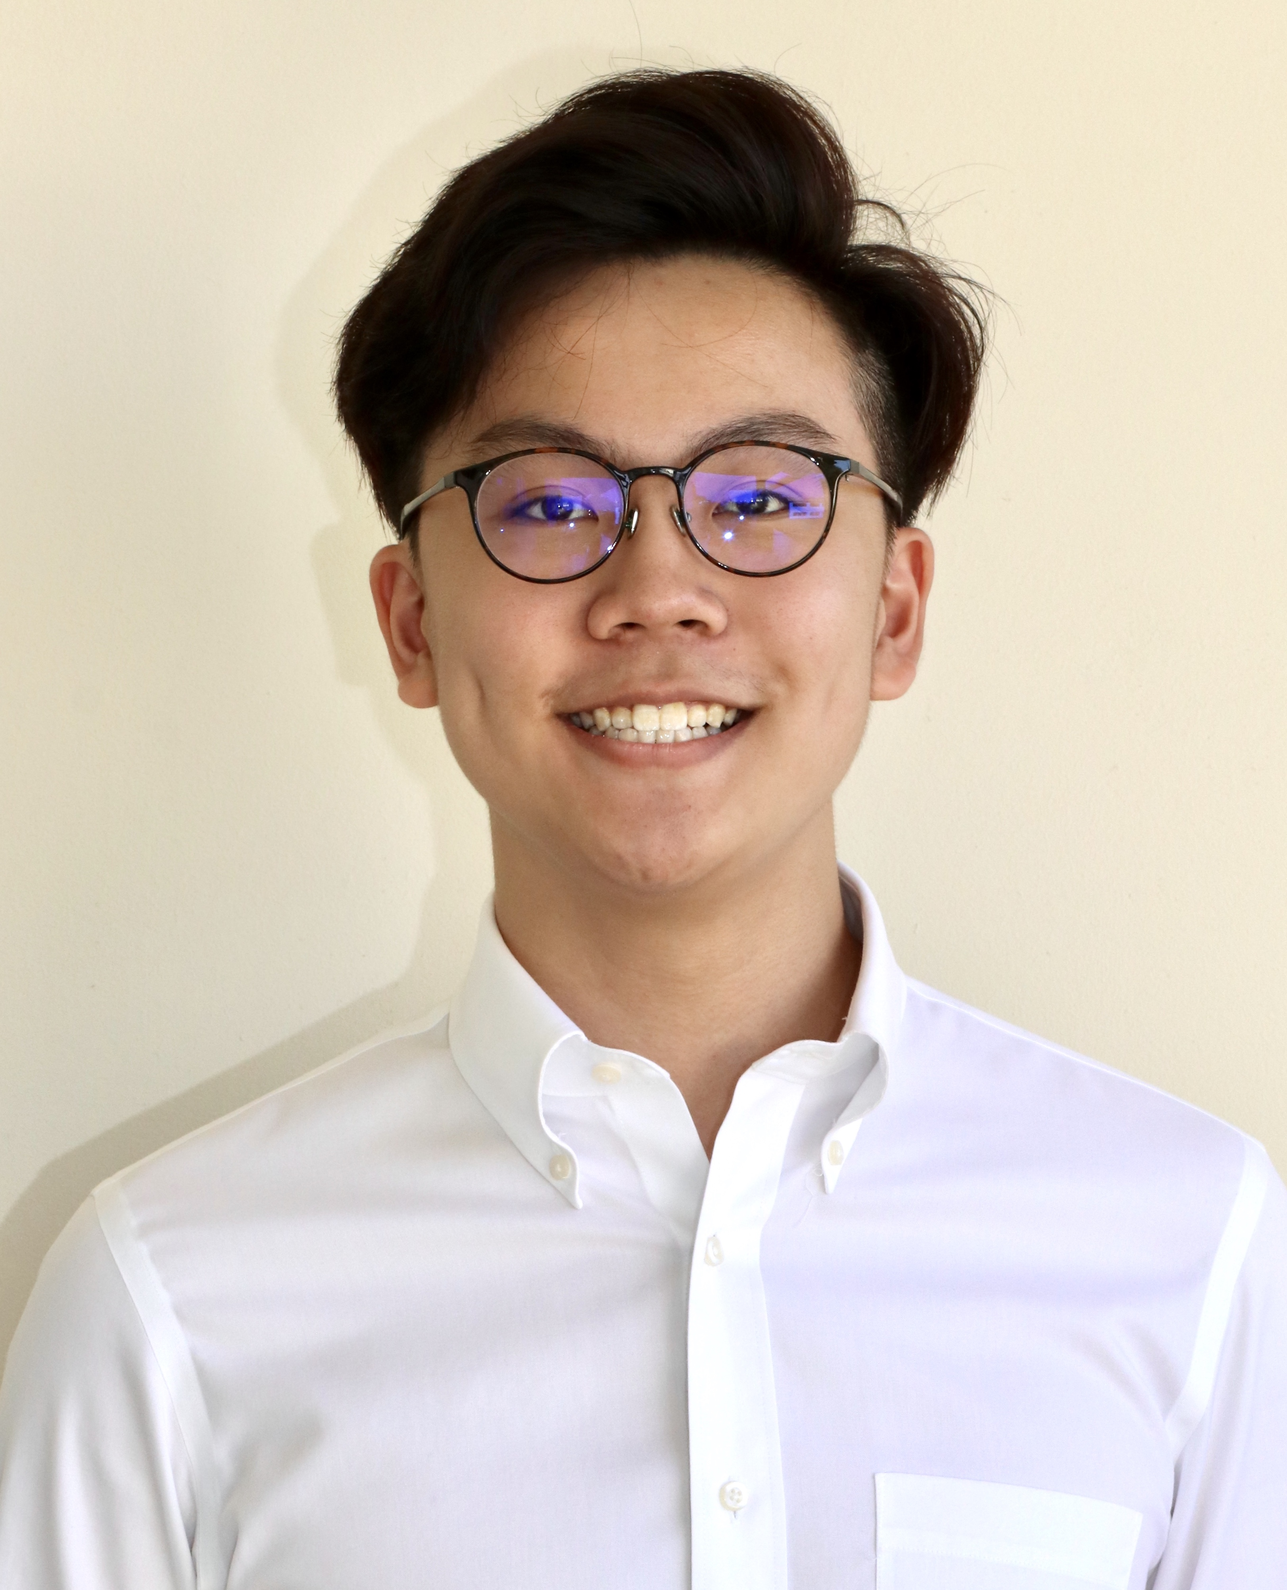
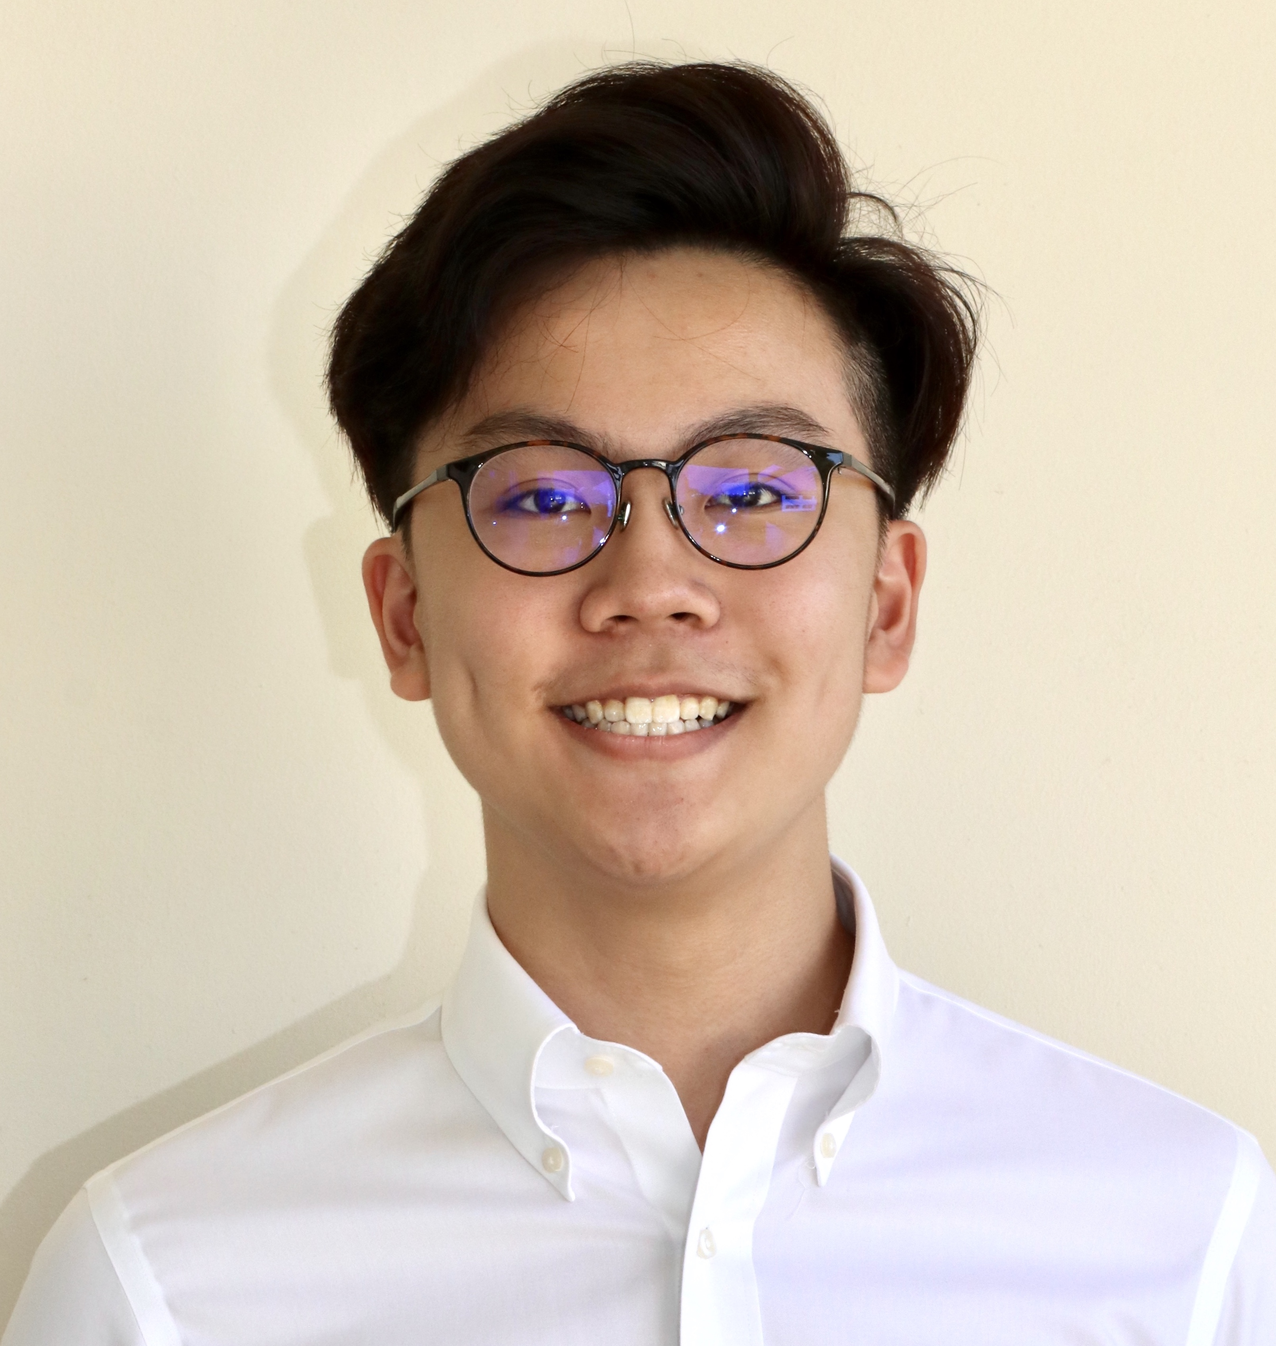
completed achievements section

diff --git a/index.html b/index.html
@@ -31,7 +31,7 @@
       <a class="navbar-brand js-scroll-trigger" href="#page-top">
         <span class="d-block d-lg-none">Victor Loh</span>
         <span class="d-none d-lg-block">
-          <img class="img-fluid img-profile rounded-circle mx-auto mb-2" src="profile_formal.jpg" alt="">
+          <img class="img-fluid img-profile rounded-circle mx-auto mb-2" src="profile.jpg" alt="">
         </span>
       </a>
       <button class="navbar-toggler" type="button" data-toggle="collapse" data-target="#navbarSupportedContent" aria-controls="navbarSupportedContent" aria-expanded="false" aria-label="Toggle navigation">
@@ -148,7 +148,8 @@
               <div class="subheading mb-3">6 Years Integrated Programme</div>
               <div>I offered H1 General Paper, H1 Project Work, H1 Higher Chinese, H2 Physics, H2 Chemistry, H2 Mathematics, H2 Economics and H3 Mathematics at the A-Levels.</div>
               <p></p>
-              <p>Obtained straight As with 8 distinctions (all subjects offered) and a perfect RP of 90.</p>
+              <p>Scored perfect 90 RP for the A-Levels (8 distinctions, straight As) - H1 GP: A, H1 PW: A, H1 HCL: A, H2 Physics: A, H2 Chem: A, H2 Math: A, H2 Econs: A, H3 Math: Distinction</p>
+              <p>Upon graduation, I was awarded the prestigious Raffles Diploma with Distinction in the Cognitive domain.</p>
             </div>
             <div class="resume-date text-md-right">
               <span class="text-primary">Jan 2018 - Dec 2019</span>
@@ -304,13 +305,19 @@
 
       <section class="resume-section p-3 p-lg-5 d-flex flex-column" id="awards">
         <div class="my-auto">
-          <h2 class="mb-5">awards &amp; certifications</h2>
+          <h2 class="mb-5">awards • achievements</h2>
           <div class="subheading mb-3">2019</div>
           <p></p>
           <ul class="fa-ul mb-0">
             <li>
               <i class="fa-li fa fa-trophy text-warning"></i>
-              Cyber Defenders Discovery Camp by DSTA (Capture The Flag) - Onsite Finals, Bronze Medallist</li>
+              Awarded Raffles Diploma with Distinction in Cognitive domain</li>
+            <li>
+              <i class="fa-li fa fa-trophy text-warning"></i>
+              Asia Pacific Bridge Federation Youth Team Championships (Under-20) held in Bangkok, Thailand - Bronze Medal</li>
+            <li>
+              <i class="fa-li fa fa-trophy text-warning"></i>
+              Cyber Defenders Discovery Camp organised by DSTA (Capture The Flag) Onsite Finals - Bronze Medal</li>
             <li>
               <i class="fa-li fa fa-trophy text-warning"></i>
               National School Teams (Contract Bridge) - Champion</li>
@@ -322,7 +329,11 @@
               National Olympiad in Informatics - Silver Medal</li>
             <li>
               <i class="fa-li fa fa-trophy text-warning"></i>
-              SMU Whitehacks (Capture The Flag) - Participation</li>
+              WhiteHacks@SG (Capture The Flag) by Centre for Strategic Infocomm Technologies, CSA Singapore, GovTech Singapore and Whitehat Society - Participation</li>
+            <li>
+              <i class="fa-li fa fa-trophy text-warning"></i>
+              Awarded Edusave Award for Achievement, Good Leadership and Service (EAGLES)</li>
+            
             </ul>
             <p></p>
             <div class="subheading mb-3">2018</div>
@@ -335,7 +346,7 @@
               Asia Pacific ICT Alliance (APICTA) Awards held in Guangzhou - Merit Award in Senior Students Category</li>
             <li>
               <i class="fa-li fa fa-trophy text-warning"></i>
-              SG:D Techblazer Awards - Selected to attend APICTA Awards in Guangzhou</li>
+              SG:D Techblazer Awards - Only student team selected from the competition to represent Singapore at the APICTA Awards in Guangzhou</li>
             <li>
               <i class="fa-li fa fa-trophy text-warning"></i>
               Singapore Mathematical Olympaid (Open Section) - Gold Award</li>
@@ -356,29 +367,324 @@
             <ul class="fa-ul mb-0">
               <li>
                 <i class="fa-li fa fa-trophy text-warning"></i>
-                Goh Hoon Meng Prize for Mathematics - Top student in Mathematics (Raffles Academy)</li>
+                Goh Hoon Meng Prize for Mathematics - Top student in Mathematics (Raffles Academy) in Raffles Institution</li>
               <li>
                 <i class="fa-li fa fa-trophy text-warning"></i>
-                Asia Pacific ICT Alliance (APICTA) Awards held in Guangzhou - Merit Award in Senior Students Category</li>
+                Top student in Computer Elective Programme in Raffles Institution</li>
               <li>
                 <i class="fa-li fa fa-trophy text-warning"></i>
-                SG:D Techblazer Awards - Selected to attend APICTA Awards in Guangzhou</li>
+                DSTA Young Defence Scientists Programme Academic Award - Mathematics</li>
               <li>
                 <i class="fa-li fa fa-trophy text-warning"></i>
-                Singapore Mathematical Olympaid (Open Section) - Gold Award</li>
+                Singapore Mathematical Olympaid (Senior Section) - Individual 11<sup>th</sup>, Gold Award</li>
               <li>
                 <i class="fa-li fa fa-trophy text-warning"></i>
-                National School Teams (Contract Bridge) - 1<sup>st</sup> Runner-up</li>
+                Singapore Mathematical Olympaid (Open Section) - Silver Award</li>
               <li>
                 <i class="fa-li fa fa-trophy text-warning"></i>
-                Raffles Pairs (Contract Bridge) - Top JC1 pair</li>
-  
+                The Peter O'Halloran Award for Excellence in the Australian Mathematics Competition (Intermediate Division) - Perfect Score, Medal</li>
               <li>
                 <i class="fa-li fa fa-trophy text-warning"></i>
                 National Olympiad in Informatics - Silver Medal</li>
-  
+              <li>
+                <i class="fa-li fa fa-trophy text-warning"></i>
+                National Olympiad in Informatics - Silver Medal</li>
+              <li>
+                <i class="fa-li fa fa-trophy text-warning"></i>
+                [i.code] by Nanyang Polytechnic, Infocomm Media Development Authority and Centre for Strategic Infocomm Technologies - 2<sup>nd</sup> Runner-up</li>
+              <li>
+                <i class="fa-li fa fa-trophy text-warning"></i>
+                The 12<sup>th</sup> Singapore Games Creation Competition organised by Nanyang Polytechnic - Merit Award, Mobile Game Award</li>
+              <li>
+                <i class="fa-li fa fa-trophy text-warning"></i>
+                Awarded Edusave Award for Achievement, Good Leadership and Service (EAGLES)</li>
+              <li>
+                <i class="fa-li fa fa-trophy text-warning"></i>
+                Awarded Raffles Merit Award for contribution to Mathematics Club as Chairperson</li>
+              </ul>
+
+            <p></p>
+            <div class="subheading mb-3">2016</div>
+            <ul class="fa-ul mb-0">
+              <li>
+                <i class="fa-li fa fa-trophy text-warning"></i>
+                Goh Hoon Meng Prize for Mathematics - Top student in Mathematics (Raffles Academy) in Raffles Institution</li>
+              <li>
+                <i class="fa-li fa fa-trophy text-warning"></i>
+                Hong Kong (China) Mathematical Olympiad held in Hong Kong - Third Class Award</li>
+              <li>
+                <i class="fa-li fa fa-trophy text-warning"></i>
+                The 11<sup>th</sup> Singapore Games Creation Competition organised by Nanyang Polytechnic - Champion, Mobile Game Award, Special Prize (Best Relevance), Special Prize (Best Creativity)</li>
+              <li>
+                <i class="fa-li fa fa-trophy text-warning"></i>
+                IMDA-Tableau NIC Face-off | Data Analytics - Showing Insights and Telling Data-Driven Stories - 2<sup>nd</sup> Runner-up</li>
+              <li>
+                <i class="fa-li fa fa-trophy text-warning"></i>
+                American Mathematics Contest 12 - Certificate of Achievement</li>
+              <li>
+                <i class="fa-li fa fa-trophy text-warning"></i>
+                Presented Raffles Institution F.I.R.E. Award for exhibiting exemplary character</li>
+              <li>
+                <i class="fa-li fa fa-trophy text-warning"></i>
+                Australian Intermediate Mathematics Olympiad - High Distinction</li>
+              <li>
+                <i class="fa-li fa fa-trophy text-warning"></i>
+                Australian Mathematics Competition (Intermediate Division) - Prize Award</li>
+              <li>
+                <i class="fa-li fa fa-trophy text-warning"></i>
+                Singapore Statistics Poster Competition (Secondary School Category) - Participation</li>
+              <li>
+                <i class="fa-li fa fa-trophy text-warning"></i>
+                莱佛士书院母语部专题作业 ”镜头会说话“ - 第二名</li>
+              <li>
+                <i class="fa-li fa fa-trophy text-warning"></i>
+                Singapore Mathematical Olympiad (Open Section) - Silver Award</li>
+              <li>
+                <i class="fa-li fa fa-trophy text-warning"></i>
+                <i>Properties of Tangential Quadrilaterals and their Applications</i> - Bronze Award and Certificate of High Distinction under Raffles Institution Research Education (Mathematics Category)</li>
+              
+              <li>
+                <i class="fa-li fa fa-trophy text-warning"></i>
+                Completed Singapore International Mathematical Olympiad (SIMO) Senior Team training programme from Oct 2016 to June 2017</li>
+              </ul>
+
+            <p></p>
+            <div class="subheading mb-3">2015</div>
+            <ul class="fa-ul mb-0">
+              <li>
+                <i class="fa-li fa fa-trophy text-warning"></i>
+                Singapore Mathematical Olympiad (Junior Section) - Individual 6<sup>th</sup>, Gold Award</li>
+              <li>
+                <i class="fa-li fa fa-trophy text-warning"></i>
+                IMDA NIC Face-off | Data Analytics Young Thinkers Challenge - Champion, featured on The Straits Times</li>
+              <li>
+                <i class="fa-li fa fa-trophy text-warning"></i>
+                The 10<sup>th</sup> Singapore Games Creation Competition organised by Nanyang Polytechnic - Consolation Award, NCPG Mobile Game Award, MoneySENSE Mobile Game Award</li>
+              <li>
+                <i class="fa-li fa fa-trophy text-warning"></i>
+                The Creative & Heuristic Applications of Science (CHAOS) - Commendation Award</li>
+              <li>
+                <i class="fa-li fa fa-trophy text-warning"></i>
+                American Mathematics Contest 10 - Certificate of Achievement</li>
+              <li>
+                <i class="fa-li fa fa-trophy text-warning"></i>
+                Australian Intermediate Mathematics Olympiad - Perfect Score and Prize Award</li>
+              <li>
+                <i class="fa-li fa fa-trophy text-warning"></i>
+                Australian Mathematics Competition (Junior Division) - Prize Award</li>
+              <li>
+                <i class="fa-li fa fa-trophy text-warning"></i>
+                Singapore Junior Physics Olympiad (Main Category) - Honourable Mention</li>
+              <li>
+                <i class="fa-li fa fa-trophy text-warning"></i>
+                Singapore Mathematical Olympiad (Open Section) - Bronze Award</li>
+              <li>
+                <i class="fa-li fa fa-trophy text-warning"></i>
+                Orientale Concentus VIII (International Choral Festival) - Champion</li>
+              <li>
+                <i class="fa-li fa fa-trophy text-warning"></i>
+                莱佛士书院母语部专题作业 ”镜头会说话“ - 优胜奖</li>
+              <li>
+                <i class="fa-li fa fa-trophy text-warning"></i>
+                Singapore Mathematical Modelling Forum and Challenge organised by Raffles Girls' School (Secondary) and Ngee Ann Secondary School - Champion</li>
+              <li>
+                <i class="fa-li fa fa-trophy text-warning"></i>
+                Australian National Chemistry Quiz (Junior Division) - 100<sup>th</sup> percentile, Certificate of Class Excellence</li>
+              <li>
+                <i class="fa-li fa fa-trophy text-warning"></i>
+                Completed Singapore International Mathematical Olympiad (SIMO) Junior & Senior Team training programme from Oct 2015 to June 2016</li>
+              </ul>
+
+            <p></p>
+            <div class="subheading mb-3">2014</div>
+            <ul class="fa-ul mb-0">
+              <li>
+                <i class="fa-li fa fa-trophy text-warning"></i>
+                Goh Hoon Meng Prize for Mathematics - Top student in Mathematics (The Euler Programme) in Raffles Institution</li>
+              <li>
+                <i class="fa-li fa fa-trophy text-warning"></i>
+                Australian Mathematics Competition (Junior Division) - Prize Award</li>
+              <li>
+                <i class="fa-li fa fa-trophy text-warning"></i>
+                American Mathematics Contest 10 - Certificate of Achievement</li>
+              <li>
+                <i class="fa-li fa fa-trophy text-warning"></i>
+                Singapore Mathematical Olympiad (Junior Section) - Gold Award</li>
+              <li>
+                <i class="fa-li fa fa-trophy text-warning"></i>
+                Singapore Mathematical Olympiad (Open Section) - Bronze Award</li>
+              <li>
+                <i class="fa-li fa fa-trophy text-warning"></i>
+                UNSW International Competitions and Assessments for Schools (English) - Distinction</li>  
+
+              </ul>
+            <p></p>
+            <div class="subheading mb-3">2013</div>
+            <ul class="fa-ul mb-0">
+              <li>
+                <i class="fa-li fa fa-trophy text-warning"></i>
+                PSLE - 5A*, aggregate of 268 was top in class</li>
+              <li>
+                <i class="fa-li fa fa-trophy text-warning"></i>
+                2<sup>nd</sup> in class for Preliminary Examinations in Tao Nan School</li>
+              <li>
+                <i class="fa-li fa fa-trophy text-warning"></i>
+                Top student in Mathematics (Gifted Education Programme) for Preliminary Examinations in Tao Nan School</li>
+              <li>
+                <i class="fa-li fa fa-trophy text-warning"></i>
+                Raffles Institution Primary Mathematics World Contest (Open Category) - High Distinction, 99.67 percentile in Round 1, Team 2<sup>nd</sup> Runner-up; among four students selected to take part in the Po Leung Kuk Primary Mathematics World Contest held in Hong Kong</li>
+              <li>
+                <i class="fa-li fa fa-trophy text-warning"></i>
+                Singapore Mathematical Olympiad (Junior Section) - Silver Award</li>
+              <li>
+                <i class="fa-li fa fa-trophy text-warning"></i>
+                National Junior College Primary School Mathematics Challenge - Individual 2<sup>nd</sup></li>
+              <li>
+                <i class="fa-li fa fa-trophy text-warning"></i>
+                Asia-Pacific Mathematical Olympiad For Primary Schools - Participated in Invitation Round</li>
+              <li>
+                <i class="fa-li fa fa-trophy text-warning"></i>
+                Singapore Mathematical Olympiad For Primary Schools - Individual 16<sup>th</sup>, Platinum Award</li>
+              <li>
+                <i class="fa-li fa fa-trophy text-warning"></i>
+                Awarded Edusave Award for Achievement, Good Leadership and Service (EAGLES)</li>
+              <li>
+                <i class="fa-li fa fa-trophy text-warning"></i>
+                Awarded Edusave Certificate of Academic Achievement</li>
+              <li>
+                <i class="fa-li fa fa-trophy text-warning"></i>
+                UNSW International Competitions and Assessments for Schools (Mathematics) - High Distinction</li>  
+              <li>
+                <i class="fa-li fa fa-trophy text-warning"></i>
+                Singapore Amazing Flying Machine Competition - Certificate of Excellence</li>  
               </ul>
           </div>
+          <p></p>
+          <div class="subheading mb-3">2012</div>
+          <ul class="fa-ul mb-0">
+            <li>
+              <i class="fa-li fa fa-trophy text-warning"></i>
+              Top student in Mathematics (Gifted Education Programme) in Tao Nan School</li>
+            <li>
+              <i class="fa-li fa fa-trophy text-warning"></i>
+              1<sup>st</sup> in class in Tao Nan School</li> 
+            <li>
+              <i class="fa-li fa fa-trophy text-warning"></i>
+              <i>Comparison of rate of loss of Vitamin C in fruits after being cut and stored in the refrigerator</i> - Gold Award (Oral Presentation) under the Individualised Research Study programme</li> 
+            <li>
+              <i class="fa-li fa fa-trophy text-warning"></i>
+              Annual Mathlympics For All Singapore Primary Schools - Individual 2<sup>nd</sup>, Gold Award</li>
+            <li>
+              <i class="fa-li fa fa-trophy text-warning"></i>
+              National Mathematical Olympiad of Singapore - Individual 19<sup>th</sup>, Gold Award</li>
+            <li>
+              <i class="fa-li fa fa-trophy text-warning"></i>
+              ABRSM Grade 8 Piano - Distinction</li>
+            <li>
+              <i class="fa-li fa fa-trophy text-warning"></i>
+              Awarded Edusave Certificate of Academic Achievement</li>
+            <li>
+              <i class="fa-li fa fa-trophy text-warning"></i>
+              UNSW International Competitions and Assessments for Schools (Mathematics) - High Distinction</li>  
+            <li>
+              <i class="fa-li fa fa-trophy text-warning"></i>
+              UNSW International Competitions and Assessments for Schools (Computer Skills) - High Distinction</li>  
+            <li>
+              <i class="fa-li fa fa-trophy text-warning"></i>
+              UNSW International Competitions and Assessments for Schools (English) - Distinction</li>  
+            <li>
+              <i class="fa-li fa fa-trophy text-warning"></i>
+              UNSW International Competitions and Assessments for Schools (Science) - Distinction</li>  
+            <li>
+              <i class="fa-li fa fa-trophy text-warning"></i>
+              道南学校硬笔书法比赛 - 第三名</li>    
+          </ul>
+          <p></p>
+          <div class="subheading mb-3">2011</div>
+          <ul class="fa-ul mb-0">
+            <li>
+              <i class="fa-li fa fa-trophy text-warning"></i>
+              2<sup>nd</sup> in class in Tao Nan School</li>  
+            <li>
+              <i class="fa-li fa fa-trophy text-warning"></i>
+              道南学校硬笔书法比赛 - 第二名</li>    
+            <li>
+              <i class="fa-li fa fa-trophy text-warning"></i>
+              UNSW International Competitions and Assessments for Schools (Mathematics) - High Distinction</li> 
+            <li>
+              <i class="fa-li fa fa-trophy text-warning"></i>
+              UNSW International Competitions and Assessments for Schools (Computer Skills) - High Distinction</li> 
+            <li>
+              <i class="fa-li fa fa-trophy text-warning"></i>
+              UNSW International Competitions and Assessments for Schools (Writing) - Distinction</li>   
+            <li>
+              <i class="fa-li fa fa-trophy text-warning"></i>
+              UNSW International Competitions and Assessments for Schools (Science) - Distinction</li>   
+            <li>
+              <i class="fa-li fa fa-trophy text-warning"></i>
+              UNSW International Competitions and Assessments for Schools (English) - Credit</li>  
+          </ul>
+          <p></p>
+          <div class="subheading mb-3">2010</div>
+          <ul class="fa-ul mb-0">
+            <li>
+              <i class="fa-li fa fa-trophy text-warning"></i>
+              Top student in Mathematics in Tao Nan School</li>
+            <li>
+              <i class="fa-li fa fa-trophy text-warning"></i>
+              3<sup>nd</sup> in class in Tao Nan School</li>  
+            <li>
+              <i class="fa-li fa fa-trophy text-warning"></i>
+              ABRSM Grade 5 Piano - Distinction</li>
+            <li>
+              <i class="fa-li fa fa-trophy text-warning"></i>
+              UNSW International Competitions and Assessments for Schools (Mathematics) - Distinction</li>  
+            <li>
+              <i class="fa-li fa fa-trophy text-warning"></i>
+              UNSW International Competitions and Assessments for Schools (English) - Distinction</li>  
+          </ul>
+          <p></p>
+          <div class="subheading mb-3">2009</div>
+          <ul class="fa-ul mb-0">
+            <li>
+              <i class="fa-li fa fa-trophy text-warning"></i>
+              Top in Form in Tao Nan School</li>
+            <li>
+              <i class="fa-li fa fa-trophy text-warning"></i>
+              Top student in English in Tao Nan School</li>
+            <li>
+              <i class="fa-li fa fa-trophy text-warning"></i>
+              ABRSM Grade 5 Theory of Music - Merit</li>
+            <li>
+              <i class="fa-li fa fa-trophy text-warning"></i>
+              ABRSM Grade 4 Piano - Distinction</li>
+            <li>
+              <i class="fa-li fa fa-trophy text-warning"></i>
+              UNSW International Competitions and Assessments for Schools (Mathematics) - Distinction</li>  
+          </ul>
+          <p></p>
+          <div class="subheading mb-3">2008</div>
+          <ul class="fa-ul mb-0">
+            <li>
+              <i class="fa-li fa fa-trophy text-warning"></i>
+              ABRSM Grade 3 Theory of Music - Distinction</li>
+          </ul>
+          <p></p>
+          <div class="subheading mb-3">2007</div>
+          <ul class="fa-ul mb-0">
+            <li>
+              <i class="fa-li fa fa-trophy text-warning"></i>
+              Trinity Grade 2 Piano - Merit</li>
+            <li>
+              <i class="fa-li fa fa-trophy text-warning"></i>
+              Trinity Grade 1 Piano - Distinction</li>
+            <li>
+              <i class="fa-li fa fa-trophy text-warning"></i>
+              Trinity Grade 1 Theory of Music - Distinction</li>
+            <li>
+              <i class="fa-li fa fa-trophy text-warning"></i>
+              Kumon Institute of Education - Advanced Student Honour Roll Gold for Mathematics</li>
+          </ul>
       </section>
 
     </div>
